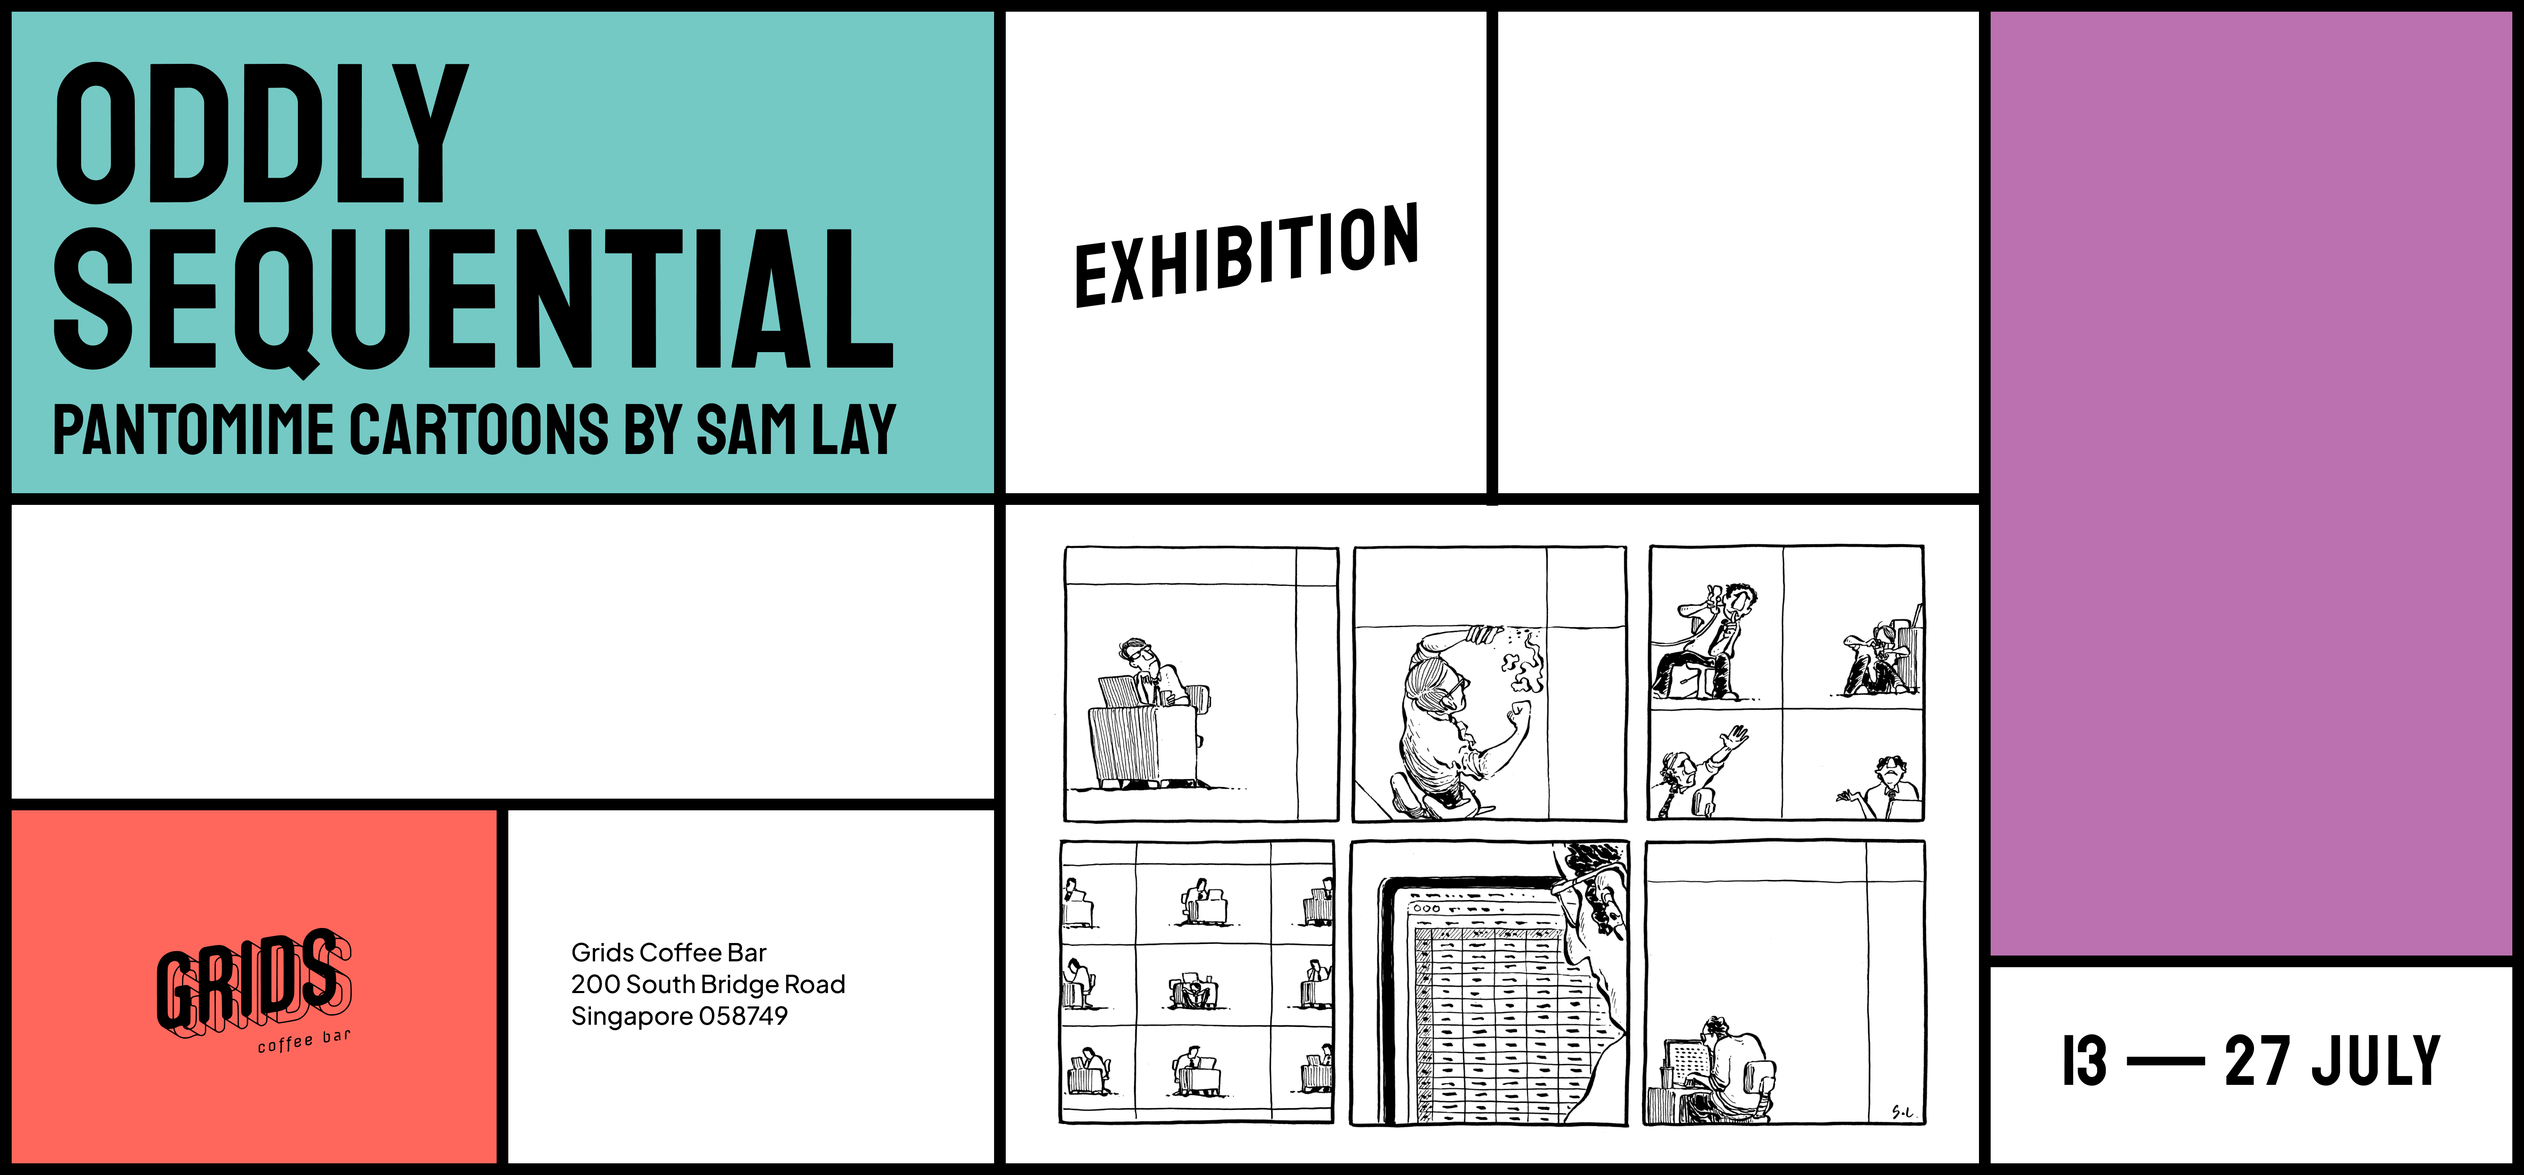
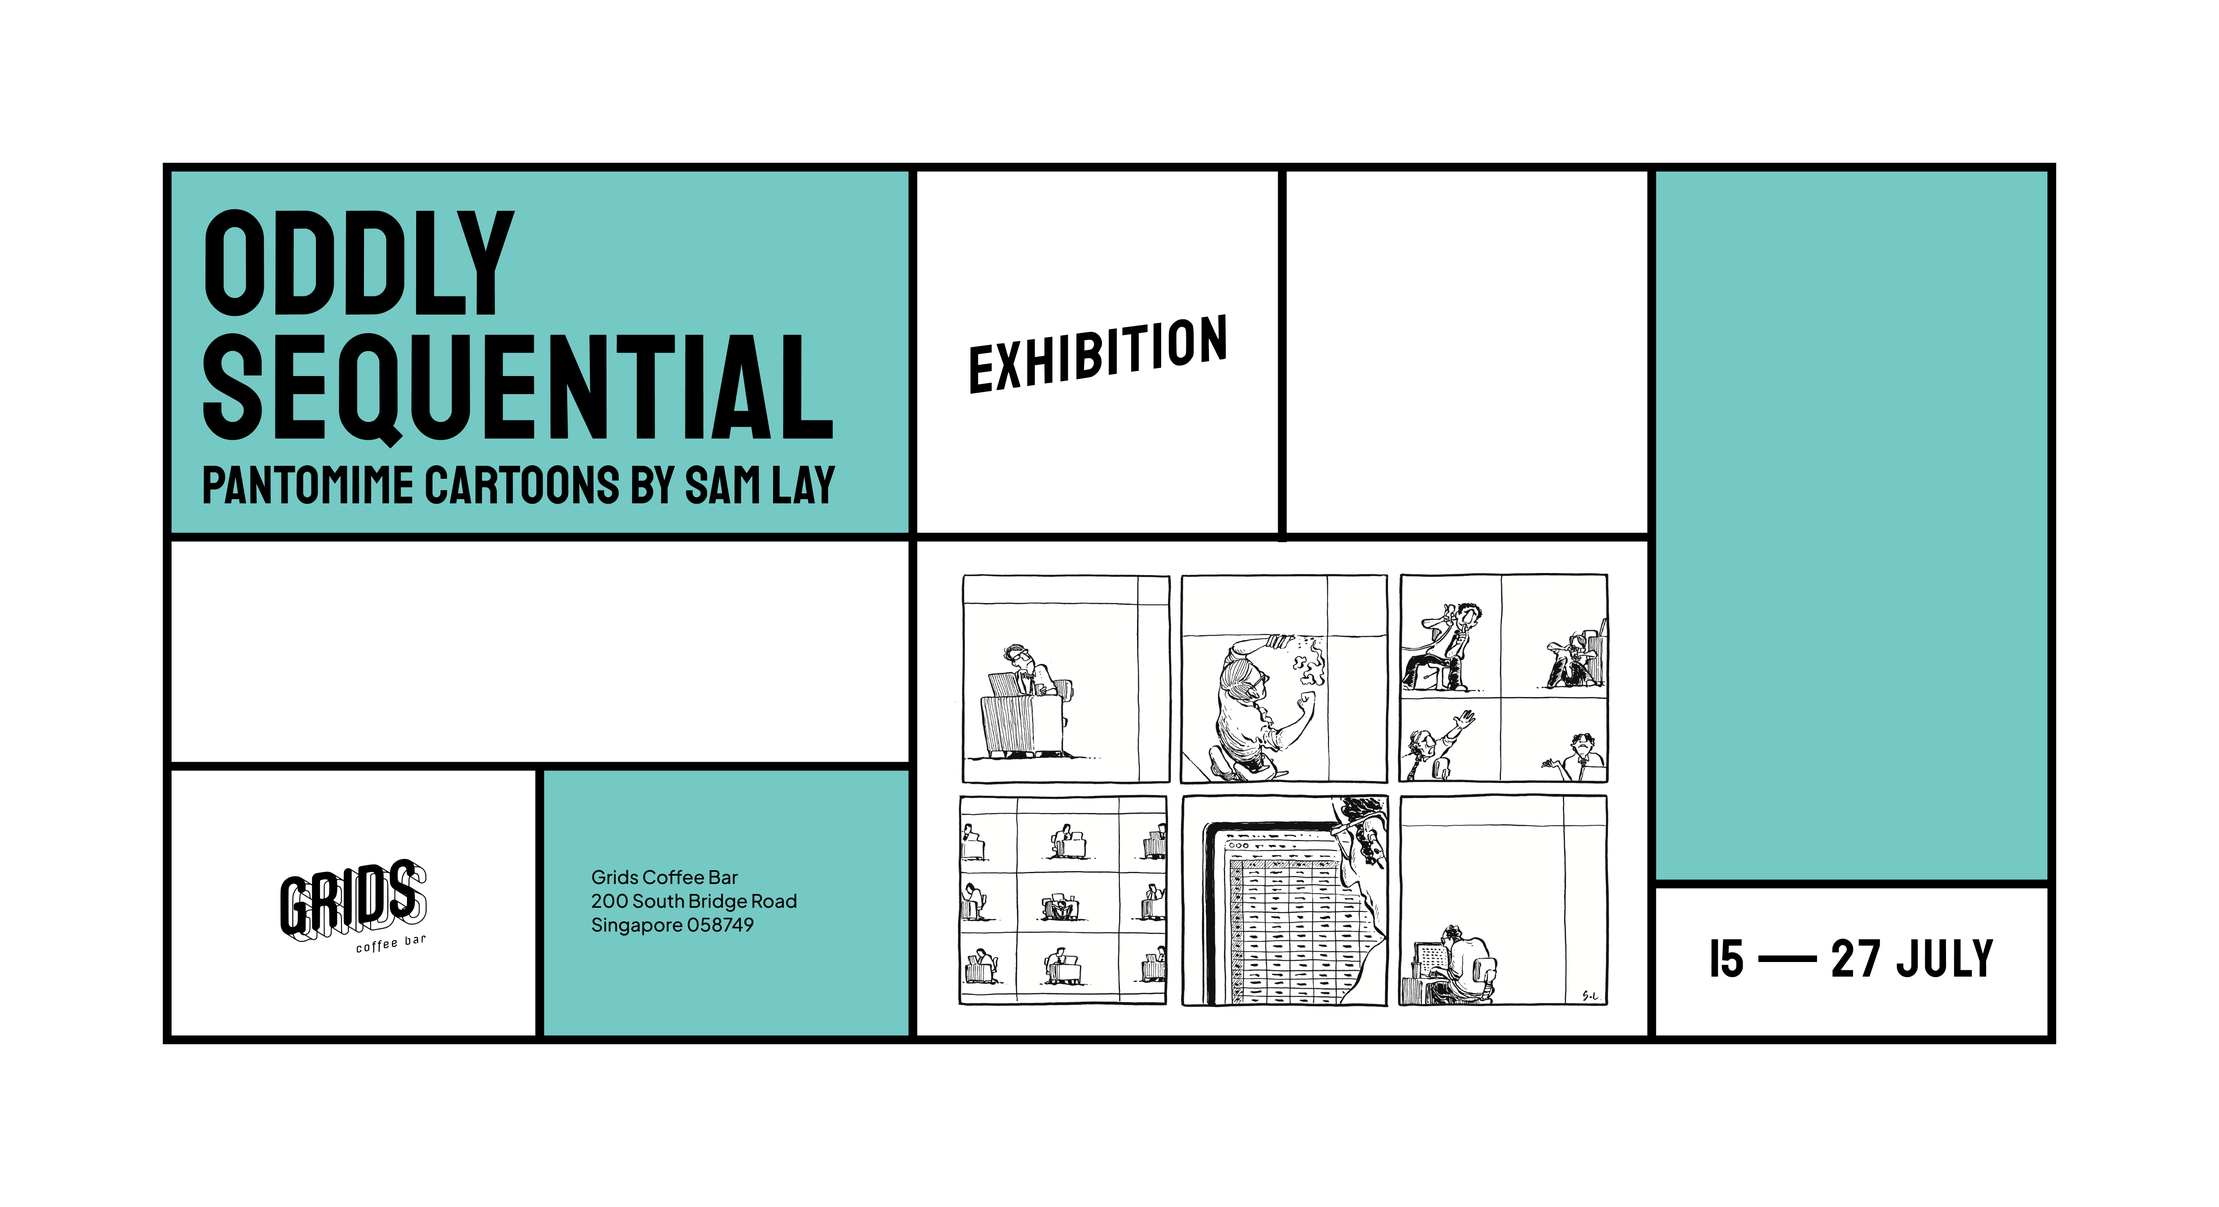
zmena doby

diff --git a/about/index.html b/about/index.html
@@ -243,10 +243,11 @@
 	<div class="post-inner thin">
 		<div class="entry-content">
 			<p>Oddly Sequential: Pantomime Cartoons by Sam Lay is an exhibition of illustrator and visual artist Sam Lay taking place at Grids Coffee Bar, 15 &ndash; 27 July 2022.</p>
-<p>Oddly Sequential: Pantomime Cartoons by Sam Lay break open the routine, often dreary struggles of everyday life through the celebration of the imagination, the pursuit of creativity and the sheer thrill of escapism that exists in us all. Through the art of cartoon, Sam Lay opens up a new world to be part of, built from humour, heroism and fantasy.</p>
-<p>A versatile artist in the discipline of cartooning, Sam Lay uses the pantomime or silent cartoon to create images and narratives that are immediately accessible and universal, avoiding the barriers of language and letting the pictures do the talking. Oddly Sequential captures the artist’s diverse approaches in experimenting with the pantomime format –single panels, multi-panels, or short story sequences. A fantastical sense of tale-telling, and punchy arrangements revel in observational humour and absurd situations.</p>
+<p>Oddly Sequential: Pantomime Cartoons by Sam Lay break open the routine, often dreary struggles of everyday life through the celebration of the imagination, the pursuit of creativity and the sheer thrill of escapism that exists in us all. Through the art of cartoon, Sam Lay opens up a new world to be a part of, built from humour, heroism and fantasy.</p>
+<p>A versatile artist in the discipline of cartooning, Sam Lay uses the pantomime or silent cartoon to create images and narratives that are immediately accessible and universal, avoiding the barriers of language and letting the pictures do the talking. Oddly Sequential captures the artist’s diverse approaches in experimenting with the pantomime format – single panels, multi-panels, or short story sequences. A fantastical sense of tale-telling and punchy arrangements revel in observational humour and absurd situations.</p>
 <p>Like the characters in his drawings looking out their office windows for an exciting alternative, look into the window-like grids of Sam Lay’s cartoons for a sense of joy and escape!</p>
 <p>You can read the full exhibition description <a href="https://oddlysequential.github.io/media/OS_media.pdf" target="_blank">here</a>.</p>
+<p>You can reserve Sam Lay&rsquo;s Limited Edition Prints at <a href=https://grids.sg/collections/oddly-sequential/ target=_blank>Grids website</a>.</p>
 
 		</div>
 	</div>
@@ -306,7 +307,7 @@
             <div class="widget-content">
               <h2 class="widget-title subheading heading-size-3">About the Exhibition</h2>
               <div class="textwidget">
-                <p>Oddly Sequential: Pantomime Cartoons by Sam Lay is an exhibition of illustrator and visual artist Sam Lay taking place at Grids Coffee Bar, 15 &ndash; 27 July 2022.</p>
+                <p>Oddly Sequential: Pantomime Cartoons by Sam Lay is an exhibition of illustrator and visual artist Sam Lay taking place at Grids Coffee Bar, <br> 15 &ndash; 27 July 2022.</p>
               </div><br/><br/>
               <h2 class="widget-title subheading heading-size-3">For Media</h2>
               <div class="textwidget">
@@ -320,8 +321,8 @@
             <div class="widget-content">
               <h2 class="widget-title subheading heading-size-3">Find Us</h2>
               <div class="textwidget">
-                <p><strong>Location</strong><br/> Grids Coffee Bar <br> 200 South Bridge Road <br> Singapore 058749 <br> <br> Chinatown Downtown Line Exit F</p>
-                <p><strong>Hours</strong><br/>Monday: 9am &ndash; 6pm <br> Tuesday: CLOSED <br> Wednesday: 9am &ndash; 12mn <br> Thursday: 9am &ndash; 12mn <br> Friday: 9am &ndash; 12mn <br> Saturday: 9am &ndash; 12mn <br> Sunday: 9am &ndash; 6pm</p>
+                <p><strong>Location</strong><br/> <a href=https://www.grids.sg/ target=_blank>Grids Coffee Bar</a> <br> 200 South Bridge Road <br> Singapore 058749 <br> <br> Chinatown Downtown Line Exit F</p>
+                <p><strong>Hours</strong><br/>Monday: 9am &ndash; 6pm <br> Tuesday: 9am &ndash; 6pm <br> Wednesday: 9am &ndash; 12mn <br> Thursday: 9am &ndash; 12mn <br> Friday: 9am &ndash; 12mn <br> Saturday: 9am &ndash; 12mn <br> Sunday: 9am &ndash; 6pm</p>
               </div>
             </div>
           </div>

diff --git a/contact/index.html b/contact/index.html
@@ -244,8 +244,9 @@
   <div class="post-inner thin">
     <div class="entry-content">
       <p>Sam Lay is a Singapore based visual artist, illustrator, and cartoonist. Sam Lay’s practice explores and satirizes our universal experience where the humor of everyday life is celebrated on a level that everyone can enjoy and understand. As a champion of the silent comic or pantomime technique, Sam Lay lets his illustrations deliver the narrative or punchline without the accompanying text or speech of conventional cartoons.</p>
-<p>The exhibition is curated by Sam Lay and Barbora Burianova.</p>
-<p>For any inquiries you may contact us at <a href="mailto:sam@curratic.com">sam@curratic.com</a>.</p>
+<p>The exhibition is curated by Barbora Burianova and Sam Lay.</p>
+<p>For any inquiries you may contact us at <a href="mailto:sam@curratic.com">sam@curratic.com</a> | <a href="mailto:barboraburian@gmail.com">barboraburian@gmail.com</a>.</p>
+<p>You can reserve Sam Lay&rsquo;s Limited Edition Prints at <a href=https://grids.sg/collections/oddly-sequential/ target=_blank>Grids website</a>.</p>
 
     </div>
   </div>
@@ -305,7 +306,7 @@
             <div class="widget-content">
               <h2 class="widget-title subheading heading-size-3">About the Exhibition</h2>
               <div class="textwidget">
-                <p>Oddly Sequential: Pantomime Cartoons by Sam Lay is an exhibition of illustrator and visual artist Sam Lay taking place at Grids Coffee Bar, 15 &ndash; 27 July 2022.</p>
+                <p>Oddly Sequential: Pantomime Cartoons by Sam Lay is an exhibition of illustrator and visual artist Sam Lay taking place at Grids Coffee Bar, <br> 15 &ndash; 27 July 2022.</p>
               </div><br/><br/>
               <h2 class="widget-title subheading heading-size-3">For Media</h2>
               <div class="textwidget">
@@ -319,8 +320,8 @@
             <div class="widget-content">
               <h2 class="widget-title subheading heading-size-3">Find Us</h2>
               <div class="textwidget">
-                <p><strong>Location</strong><br/> Grids Coffee Bar <br> 200 South Bridge Road <br> Singapore 058749 <br> <br> Chinatown Downtown Line Exit F</p>
-                <p><strong>Hours</strong><br/>Monday: 9am &ndash; 6pm <br> Tuesday: CLOSED <br> Wednesday: 9am &ndash; 12mn <br> Thursday: 9am &ndash; 12mn <br> Friday: 9am &ndash; 12mn <br> Saturday: 9am &ndash; 12mn <br> Sunday: 9am &ndash; 6pm</p>
+                <p><strong>Location</strong><br/> <a href=https://www.grids.sg/ target=_blank>Grids Coffee Bar</a> <br> 200 South Bridge Road <br> Singapore 058749 <br> <br> Chinatown Downtown Line Exit F</p>
+                <p><strong>Hours</strong><br/>Monday: 9am &ndash; 6pm <br> Tuesday: 9am &ndash; 6pm <br> Wednesday: 9am &ndash; 12mn <br> Thursday: 9am &ndash; 12mn <br> Friday: 9am &ndash; 12mn <br> Saturday: 9am &ndash; 12mn <br> Sunday: 9am &ndash; 6pm</p>
               </div>
             </div>
           </div>

diff --git a/index.html b/index.html
@@ -246,7 +246,7 @@
   
   <figure class="featured-media">
     <div class="featured-media-inner section-inner">
-      <img width="1200" height="769" src="https://oddlysequential.github.io/images/OS_website_banner_blue.png"
+      <img width="1200" height="769" src="https://oddlysequential.github.io/images/OS_website_banner.png"
         class="attachment-post-thumbnail size-post-thumbnail wp-post-image" alt=""
         sizes="(max-width: 1200px) 100vw, 1200px" />
     </div>
@@ -349,7 +349,7 @@
             <div class="widget-content">
               <h2 class="widget-title subheading heading-size-3">About the Exhibition</h2>
               <div class="textwidget">
-                <p>Oddly Sequential: Pantomime Cartoons by Sam Lay is an exhibition of illustrator and visual artist Sam Lay taking place at Grids Coffee Bar, 15 &ndash; 27 July 2022.</p>
+                <p>Oddly Sequential: Pantomime Cartoons by Sam Lay is an exhibition of illustrator and visual artist Sam Lay taking place at Grids Coffee Bar, <br> 15 &ndash; 27 July 2022.</p>
               </div><br/><br/>
               <h2 class="widget-title subheading heading-size-3">For Media</h2>
               <div class="textwidget">
@@ -363,8 +363,8 @@
             <div class="widget-content">
               <h2 class="widget-title subheading heading-size-3">Find Us</h2>
               <div class="textwidget">
-                <p><strong>Location</strong><br/> Grids Coffee Bar <br> 200 South Bridge Road <br> Singapore 058749 <br> <br> Chinatown Downtown Line Exit F</p>
-                <p><strong>Hours</strong><br/>Monday: 9am &ndash; 6pm <br> Tuesday: CLOSED <br> Wednesday: 9am &ndash; 12mn <br> Thursday: 9am &ndash; 12mn <br> Friday: 9am &ndash; 12mn <br> Saturday: 9am &ndash; 12mn <br> Sunday: 9am &ndash; 6pm</p>
+                <p><strong>Location</strong><br/> <a href=https://www.grids.sg/ target=_blank>Grids Coffee Bar</a> <br> 200 South Bridge Road <br> Singapore 058749 <br> <br> Chinatown Downtown Line Exit F</p>
+                <p><strong>Hours</strong><br/>Monday: 9am &ndash; 6pm <br> Tuesday: 9am &ndash; 6pm <br> Wednesday: 9am &ndash; 12mn <br> Thursday: 9am &ndash; 12mn <br> Friday: 9am &ndash; 12mn <br> Saturday: 9am &ndash; 12mn <br> Sunday: 9am &ndash; 6pm</p>
               </div>
             </div>
           </div>

diff --git a/author/index.html b/author/index.html
@@ -304,7 +304,7 @@
             <div class="widget-content">
               <h2 class="widget-title subheading heading-size-3">About the Exhibition</h2>
               <div class="textwidget">
-                <p>Oddly Sequential: Pantomime Cartoons by Sam Lay is an exhibition of illustrator and visual artist Sam Lay taking place at Grids Coffee Bar, 15 &ndash; 27 July 2022.</p>
+                <p>Oddly Sequential: Pantomime Cartoons by Sam Lay is an exhibition of illustrator and visual artist Sam Lay taking place at Grids Coffee Bar, <br> 15 &ndash; 27 July 2022.</p>
               </div><br/><br/>
               <h2 class="widget-title subheading heading-size-3">For Media</h2>
               <div class="textwidget">
@@ -318,8 +318,8 @@
             <div class="widget-content">
               <h2 class="widget-title subheading heading-size-3">Find Us</h2>
               <div class="textwidget">
-                <p><strong>Location</strong><br/> Grids Coffee Bar <br> 200 South Bridge Road <br> Singapore 058749 <br> <br> Chinatown Downtown Line Exit F</p>
-                <p><strong>Hours</strong><br/>Monday: 9am &ndash; 6pm <br> Tuesday: CLOSED <br> Wednesday: 9am &ndash; 12mn <br> Thursday: 9am &ndash; 12mn <br> Friday: 9am &ndash; 12mn <br> Saturday: 9am &ndash; 12mn <br> Sunday: 9am &ndash; 6pm</p>
+                <p><strong>Location</strong><br/> <a href=https://www.grids.sg/ target=_blank>Grids Coffee Bar</a> <br> 200 South Bridge Road <br> Singapore 058749 <br> <br> Chinatown Downtown Line Exit F</p>
+                <p><strong>Hours</strong><br/>Monday: 9am &ndash; 6pm <br> Tuesday: 9am &ndash; 6pm <br> Wednesday: 9am &ndash; 12mn <br> Thursday: 9am &ndash; 12mn <br> Friday: 9am &ndash; 12mn <br> Saturday: 9am &ndash; 12mn <br> Sunday: 9am &ndash; 6pm</p>
               </div>
             </div>
           </div>

diff --git a/categories/index.html b/categories/index.html
@@ -304,7 +304,7 @@
             <div class="widget-content">
               <h2 class="widget-title subheading heading-size-3">About the Exhibition</h2>
               <div class="textwidget">
-                <p>Oddly Sequential: Pantomime Cartoons by Sam Lay is an exhibition of illustrator and visual artist Sam Lay taking place at Grids Coffee Bar, 15 &ndash; 27 July 2022.</p>
+                <p>Oddly Sequential: Pantomime Cartoons by Sam Lay is an exhibition of illustrator and visual artist Sam Lay taking place at Grids Coffee Bar, <br> 15 &ndash; 27 July 2022.</p>
               </div><br/><br/>
               <h2 class="widget-title subheading heading-size-3">For Media</h2>
               <div class="textwidget">
@@ -318,8 +318,8 @@
             <div class="widget-content">
               <h2 class="widget-title subheading heading-size-3">Find Us</h2>
               <div class="textwidget">
-                <p><strong>Location</strong><br/> Grids Coffee Bar <br> 200 South Bridge Road <br> Singapore 058749 <br> <br> Chinatown Downtown Line Exit F</p>
-                <p><strong>Hours</strong><br/>Monday: 9am &ndash; 6pm <br> Tuesday: CLOSED <br> Wednesday: 9am &ndash; 12mn <br> Thursday: 9am &ndash; 12mn <br> Friday: 9am &ndash; 12mn <br> Saturday: 9am &ndash; 12mn <br> Sunday: 9am &ndash; 6pm</p>
+                <p><strong>Location</strong><br/> <a href=https://www.grids.sg/ target=_blank>Grids Coffee Bar</a> <br> 200 South Bridge Road <br> Singapore 058749 <br> <br> Chinatown Downtown Line Exit F</p>
+                <p><strong>Hours</strong><br/>Monday: 9am &ndash; 6pm <br> Tuesday: 9am &ndash; 6pm <br> Wednesday: 9am &ndash; 12mn <br> Thursday: 9am &ndash; 12mn <br> Friday: 9am &ndash; 12mn <br> Saturday: 9am &ndash; 12mn <br> Sunday: 9am &ndash; 6pm</p>
               </div>
             </div>
           </div>

diff --git a/search/index.html b/search/index.html
@@ -338,7 +338,7 @@
             <div class="widget-content">
               <h2 class="widget-title subheading heading-size-3">About the Exhibition</h2>
               <div class="textwidget">
-                <p>Oddly Sequential: Pantomime Cartoons by Sam Lay is an exhibition of illustrator and visual artist Sam Lay taking place at Grids Coffee Bar, 15 &ndash; 27 July 2022.</p>
+                <p>Oddly Sequential: Pantomime Cartoons by Sam Lay is an exhibition of illustrator and visual artist Sam Lay taking place at Grids Coffee Bar, <br> 15 &ndash; 27 July 2022.</p>
               </div><br/><br/>
               <h2 class="widget-title subheading heading-size-3">For Media</h2>
               <div class="textwidget">
@@ -352,8 +352,8 @@
             <div class="widget-content">
               <h2 class="widget-title subheading heading-size-3">Find Us</h2>
               <div class="textwidget">
-                <p><strong>Location</strong><br/> Grids Coffee Bar <br> 200 South Bridge Road <br> Singapore 058749 <br> <br> Chinatown Downtown Line Exit F</p>
-                <p><strong>Hours</strong><br/>Monday: 9am &ndash; 6pm <br> Tuesday: CLOSED <br> Wednesday: 9am &ndash; 12mn <br> Thursday: 9am &ndash; 12mn <br> Friday: 9am &ndash; 12mn <br> Saturday: 9am &ndash; 12mn <br> Sunday: 9am &ndash; 6pm</p>
+                <p><strong>Location</strong><br/> <a href=https://www.grids.sg/ target=_blank>Grids Coffee Bar</a> <br> 200 South Bridge Road <br> Singapore 058749 <br> <br> Chinatown Downtown Line Exit F</p>
+                <p><strong>Hours</strong><br/>Monday: 9am &ndash; 6pm <br> Tuesday: 9am &ndash; 6pm <br> Wednesday: 9am &ndash; 12mn <br> Thursday: 9am &ndash; 12mn <br> Friday: 9am &ndash; 12mn <br> Saturday: 9am &ndash; 12mn <br> Sunday: 9am &ndash; 6pm</p>
               </div>
             </div>
           </div>

diff --git a/tags/index.html b/tags/index.html
@@ -304,7 +304,7 @@
             <div class="widget-content">
               <h2 class="widget-title subheading heading-size-3">About the Exhibition</h2>
               <div class="textwidget">
-                <p>Oddly Sequential: Pantomime Cartoons by Sam Lay is an exhibition of illustrator and visual artist Sam Lay taking place at Grids Coffee Bar, 15 &ndash; 27 July 2022.</p>
+                <p>Oddly Sequential: Pantomime Cartoons by Sam Lay is an exhibition of illustrator and visual artist Sam Lay taking place at Grids Coffee Bar, <br> 15 &ndash; 27 July 2022.</p>
               </div><br/><br/>
               <h2 class="widget-title subheading heading-size-3">For Media</h2>
               <div class="textwidget">
@@ -318,8 +318,8 @@
             <div class="widget-content">
               <h2 class="widget-title subheading heading-size-3">Find Us</h2>
               <div class="textwidget">
-                <p><strong>Location</strong><br/> Grids Coffee Bar <br> 200 South Bridge Road <br> Singapore 058749 <br> <br> Chinatown Downtown Line Exit F</p>
-                <p><strong>Hours</strong><br/>Monday: 9am &ndash; 6pm <br> Tuesday: CLOSED <br> Wednesday: 9am &ndash; 12mn <br> Thursday: 9am &ndash; 12mn <br> Friday: 9am &ndash; 12mn <br> Saturday: 9am &ndash; 12mn <br> Sunday: 9am &ndash; 6pm</p>
+                <p><strong>Location</strong><br/> <a href=https://www.grids.sg/ target=_blank>Grids Coffee Bar</a> <br> 200 South Bridge Road <br> Singapore 058749 <br> <br> Chinatown Downtown Line Exit F</p>
+                <p><strong>Hours</strong><br/>Monday: 9am &ndash; 6pm <br> Tuesday: 9am &ndash; 6pm <br> Wednesday: 9am &ndash; 12mn <br> Thursday: 9am &ndash; 12mn <br> Friday: 9am &ndash; 12mn <br> Saturday: 9am &ndash; 12mn <br> Sunday: 9am &ndash; 6pm</p>
               </div>
             </div>
           </div>
